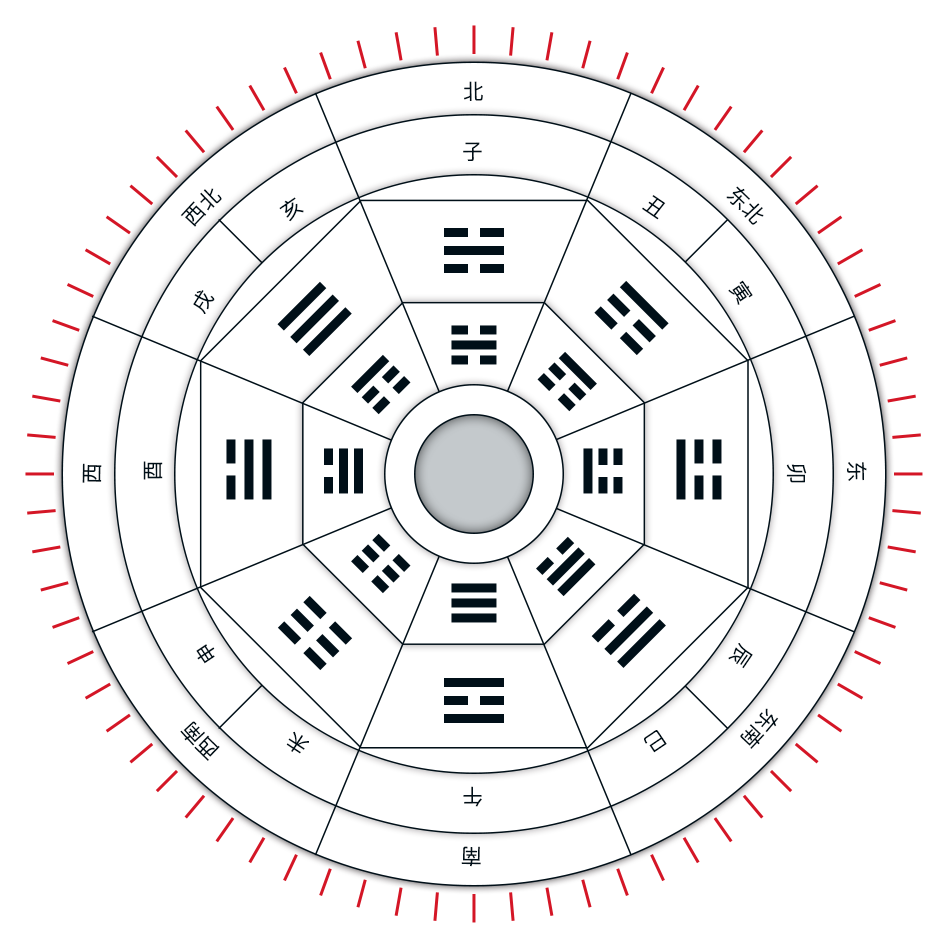
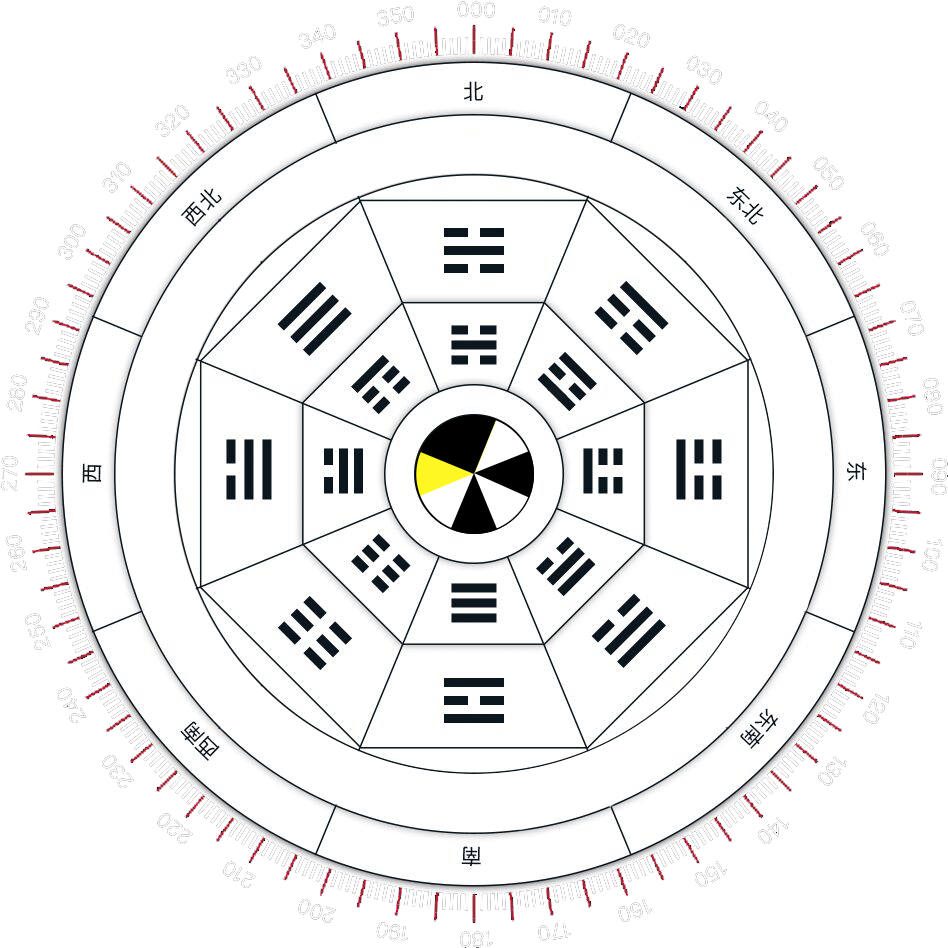
无

diff --git a/games/lp/index.html b/games/lp/index.html
@@ -4,89 +4,46 @@
 <meta charset="utf-8"><meta name="viewport" content="maximum-scale=1.0,minimum-scale=1.0,user-scalable=0,width=device-width,initial-scale=1.0" />
 <meta name="format-detection" content="telephone=no,email=no,date=no,address=no">
 <title>罗盘-yinmouxue.com</title>
-<link rel="stylesheet" href="style/hui.css" media="screen" type="text/css">
+<link href="style/hui.css" rel="stylesheet" type="text/css" />
 <style>
+/*qq790431300*/
 body{padding:0;margin:0;overflow-x:hidden;}
-#image{width:100%;padding:0;margin:0;text-align:center;}
-#img{width:80%;margin:8px;}
+#image{width:100%;padding:0;margin:0;text-align:center;vertical-align:middle;}
+#img{width:280px;margin:0px}
 </style>
 </head>
 <body class="H-theme-background-color3">
-<header class="H-header H-theme-background-color3" id="header"><span class="H-icon H-position-relative H-display-inline-block H-float-left H-vertical-middle H-theme-font-color-white H-padding-horizontal-left-5 H-z-index-100" onclick="window.history.go(-1);"><i class="H-iconfont H-icon-arrow-left H-font-size-18 H-vertical-middle"></i></span><div class="H-header-title H-center-all H-font-size-18 H-text-show-row-1 H-theme-font-color-white H-position-absolute H-width-100-percent" id="text">
-先后天罗盘</div></header>
+<header class="H-header H-theme-background-color3" id="header"><span class="H-icon H-position-relative H-display-inline-block H-float-left H-vertical-middle H-theme-font-color-white H-padding-horizontal-left-5 H-z-index-100" onclick="window.history.go(-1);"><i class="H-iconfont H-icon-arrow-left H-font-size-18 H-vertical-middle"></i>返回</span><div class="H-header-title H-center-all H-font-size-18 H-text-show-row-1 H-theme-font-color-white H-position-absolute H-width-100-percent" id="text">
+沃RD罗盘</div></header>
 <div id="image" class="H-theme-background-color3">
-<img src="image/jiantou.png" style="width:24px;">
+<img src="image/jiantou.png" style="position:absolute;width:20px;top:45px;left:170px;vertical-align:middle;z-index:999;">
+<img src="image/zhizhen.png" id="zhizhen" style="position:absolute;width:8px;top:193px;left:176px;vertical-align:middle;z-index:999;">
+<img src="image/jiaochaxian.png" style="position:absolute;width:280px;top:68px;left:40px;vertical-align:middle;z-index:999;">
+<img src="image/3.png" id="t" style="position:absolute;width:280px;top:68px;left:40px;vertical-align:middle;z-index:99;">
 <br/>
-<img src="image/2.png" id="img">
+<img src="image/1.png" id="img" style="position:relative;">
 </div>
+
+<div class="H-padding-vertical-bottom-12"></div>
+<div class="H-progress H-theme-background-color-eee H-width-100-percent H-border-radius-5 H-line-height-0 H-overflow-hidden" style="height:5px;">
+<div class="H-height-100-percent H-theme-background-color4" id="jd" style="width:0%"></div></div>
+<div class="H-padding-vertical-bottom-12"></div>
+<center>
 <div style="padding:16px;color:#fff;">
-<span id="alpha"></span>
-<script>
-function $(id){return document.getElementById(id);}
-if(window.DeviceOrientationEvent){
-window.addEventListener('deviceorientation',function (event){
-alpha = event.alpha,
-beta = event.beta,
-gamma = event.gamma;
-
-$("img").style.transform="rotateZ("+alpha+"deg)";
-$("img").style.transform="rotateZ("+alpha+"deg)";
-
-if(beta>22 || beta<-16 || gamma>22 || gamma<-22){
-$("text").innerText="请把手机放平";
-}else{
-var $alpha=360-alpha;
-switch(true){
-case $alpha>337.5 || $alpha<22.5:text="朝北";
-break;
-case $alpha>22.5 && $alpha<67.5:text="朝东北";
-break;
-case $alpha>67.5 && $alpha<112.5:text="朝东";
-break;
-case $alpha>112.5 && $alpha<157.5:text="朝东南";
-break;
-case $alpha>157.5 && $alpha<202.5:text="朝南";
-break;
-case $alpha>202.5 && $alpha<247.5:text="朝西南";
-break;
-case $alpha>247.5 && $alpha<292.5:text="朝西";
-break;
-case $alpha>292.5 && $alpha<337.5:text="朝西北";
-break;
-//default:text = "北";
-}
-$("text").innerText=text;
-$("alpha").innerText=$alpha;
-}
-},false);
-
-}else{
-document.querySelector('body').innerText = '你的浏览器不支持陀螺仪';
-}
-</script>
-
+<span id="zz" style="display:none">0</span>
+<span id="ti" class="time"></span>
+<script src="style/wo.js"></script>
 <br/>
-八卦图是什么？<br/>
-八卦图是用来描述宇宙的。<br/>
-前后，左右，上下称为宇，过去，现在，未来称为宙。<br/>
-从内开始，第一圈是宙轴，描述空间方向，人们常见的就只有三维空间里的一维，（北，东北，东，东南，南，西南，西，西北）八个方向，共360℃，
-每方45℃<br/>
-正北方为0℃，神奇的事发生了，
-<br/>337=13=4=北
-<br/>22=4=东北
-<br/>67=13=4=东
-<br/>112=4=东南
-<br/>157=13=4=南
-<br/>202=4=西南
-<br/>247=13=4=西
-<br/>292=13=4=西北
-<br/>13代表黑暗。4代表光明，发现黑暗有5，光明有3，67代表东方，唯一的2位加起来等于13的数，东方有太阳升起，黑暗被照亮，黑暗数5-1=4，光明数3+1=4，
-下午太阳到西方变白，东方变黑，刚好平衡。
+<span class="time">
+预测占卜联系QQ:790431300</span>
 <br/><br/>
-第二，三，四……圈代表宇轴，时间<br/>
-每一轴都会同步宇宙的变化而转动，秒，分，时，天，月，季，年，甲子，以及宇宙星体运行影响给地球带来的灾难，天象奇观，宇宙变化八卦图就会变化转动，还有其他轴能预测过去现在未来，因为八卦图已经容纳了宇宙，整个四维空间，化繁为简。<br/><br/>
-其他圈轴代表某些特殊含义，比如预测<br/><br/>完整的八卦运行图开发需要资金，所以只能展示上面的这一部分。<br/>想看完整版可投资合作，加QQ:790431300<br/>
-</div>
+乾三阳 坤三阴<br/>
+艮上阳 兑上阴<br/>
+坎中阳 离中阴<br/>
+震下阳 巽下阴<br/>
+</center>
 
-
+<br/><div style="text-align:left;color:#f4f4f4;padding:16px;">
+资金不足，目前只有方向和时间轮，只能观测宇宙的时间和方向，投资可加几轮，天气温度轮，自然现象轮风，云，雨，雷，雹，晴，雪，震，四季二十四节气轮，吉凶轮，天象轮等……联系微信：guigs_cn<br/>
+</div></div>
 </body></html>

diff --git a/games/lp/1.html b/games/lp/1.html
@@ -1,0 +1,162 @@
+<!DOCTYPE html>
+<html lang="en">
+<head>
+  <meta charset="UTF-8">
+  <meta name="viewport" content="width=device-width, initial-scale=1.0">
+  <meta http-equiv="X-UA-Compatible" content="ie=edge">
+  <title>Document</title>
+<style>
+  .week-item {
+    display: inline-block;
+    width:30px;
+    height: 40px;
+    line-height: 40px;
+    border: 1px solid sandybrown;
+    text-align: center;
+  }
+  .date-item {
+    display: inline-block;
+    width:30px;
+    height: 40px;
+    line-height: 40px;
+    border: 1px solid beige;
+    text-align: center;
+  }
+</style>
+</head>
+<body>
+  <div class="wrapper" style="margin:auto;text-align:center;">
+    <div class="year-line">
+      <button id="preMonth" class="year-prev">上一月</button>
+      <button id="nowYear" class="year-now"></button>
+      <button id="nowMonth"></button>
+      <button id="nowDate"></button>
+      <button id="nextMonth" class="year-next">下一月</button>
+    </div><br/>
+    <div id="weekLine" class="week-line"></div>
+    <div id="dateWrap" class="date-wrap"></div>
+  </div>
+</body>
+<script>
+  // 工具方法 - start
+  // 1.为了获得每个月的日期有多少，我们需要判断 平年闰年[四年一闰，百年不闰，四百年再闰]
+  const isLeapYear = (year) => {
+    return (year % 400 === 0) || (year % 100 !== 0 && year % 4 === 0);
+  };
+  // 2.获得每个月的日期有多少，注意 month - [0-11]
+  const getMonthCount = (year, month) => {
+    let arr = [
+      31, null, 31, 30, 
+      31, 30, 31, 31,
+      30, 31, 30, 31
+    ];
+    let count = arr[month] || (isLeapYear(year) ? 29 : 28);
+    return Array.from(new Array(count), (item, value) => value + 1);
+  };
+  // 3.获得某年某月的 1号 是星期几，这里要注意的是 JS 的 API-getDay() 是从 [日-六](0-6)，返回 number
+  const getWeekday = (year, month) => {
+    let date = new Date(year, month, 1);
+    return date.getDay();
+  };
+  // 4.获得上个月的天数
+  const getPreMonthCount = (year, month) => {
+    if (month === 0) {
+      return getMonthCount(year - 1, 11);
+    } else {
+      return getMonthCount(year, month - 1);
+    }
+  };
+  // 5.获得下个月的天数
+  const getNextMonthCount = (year, month) => {
+    if (month === 11) {
+      return getMonthCount(year + 1, 0);
+    } else {
+      return getMonthCount(year, month + 1);
+    }
+  };
+  // 工具方法 - end
+  let weekStr = '日一二三四五六';
+  weekArr = weekStr.split('').map(item => '' + item);
+  // 插入星期 dom
+  let weekDomStr = '';
+  let oFragWeek = document.createDocumentFragment();
+  weekArr.forEach(item => {
+    let oSpan = document.createElement('span');
+    let oText = document.createTextNode(item);
+    oSpan.appendChild(oText);
+    oSpan.classList.add('week-item');
+    oFragWeek.appendChild(oSpan);
+  });
+  let weekWrap = document.getElementById('weekLine');
+  weekWrap.appendChild(oFragWeek);
+
+  // 这里获得我们第一次的 数据 数组
+  const updateCalendar = (year, month, day) => {
+    if (typeof year === 'undefined' && typeof month === 'undefined' && typeof day === 'undefined') {
+      let nowDate = new Date();
+      year = nowDate.getFullYear();
+      month = nowDate.getMonth();
+      day = nowDate.getDate();
+    }
+    // 更新一下顶部的年月显示
+    document.getElementById('nowYear').innerHTML = year;
+    document.getElementById('nowMonth').innerHTML = month + 1;
+    document.getElementById('nowDate').innerHTML = day;
+    // 生成日历数据，上个月的 x 天 + 当月的 [28,29,30,31]天 + 下个月的 y 天 = 42
+    let res = [];
+    let currentMonth = getMonthCount(year, month);
+    let preMonth = getPreMonthCount(year, month);
+    let nextMonth = getNextMonthCount(year, month);
+    let whereMonday = getWeekday(year, month);
+    let preArr = preMonth.slice(-1 * whereMonday);
+    let nextArr = nextMonth.slice(0, 42 - currentMonth.length - whereMonday);
+    res = [].concat(preArr, currentMonth, nextArr);
+    // 上面经过我本人的测试是没有什么问题，接下来就是更新 dom 的信息的问题
+    let hadDom = document.getElementsByClassName('date-item');
+    if (hadDom && hadDom.length) {
+      let domArr = document.getElementsByClassName('date-item');
+      for (let i = 0; i < domArr.length; i++) {
+        domArr[i].innerHTML = res.shift();
+      }
+    } else {
+      // 如果之前没有结构的话
+      let str = '';
+      for (let i = 0; i < 6; i++) {
+        str += '<div class="date-line">';
+        for (let j = 0; j < 7; j++) {
+          str += `<span class='date-item'>${res.shift()}</span>`;
+          if (j === 6) {
+            str += '</div>';
+          }
+        }
+      }
+      document.getElementById('dateWrap').innerHTML = str;
+    }
+  };
+
+  updateCalendar();
+  // 添加上一月，下一月事件
+  let oPreButton = document.getElementById('preMonth');
+  let oNextButton = document.getElementById('nextMonth');
+  oPreButton.addEventListener('click', function () {
+    let currentYear = +document.getElementById('nowYear').textContent;
+    let currentMonth = +document.getElementById('nowMonth').textContent - 1;
+    let currentDate = +document.getElementById('nowDate').textContent;
+    if (currentMonth === 0) {
+      updateCalendar(currentYear - 1, 11, currentDate);
+    } else {
+      updateCalendar(currentYear, currentMonth - 1, currentDate);
+    }
+  });
+  oNextButton.addEventListener('click', function () {
+    let currentYear = +document.getElementById('nowYear').textContent;
+    let currentMonth = +document.getElementById('nowMonth').textContent - 1;
+    let currentDate = +document.getElementById('nowDate').textContent;
+    if (currentMonth === 11) {
+      updateCalendar(currentYear + 1, 0, currentDate);
+    } else {
+      updateCalendar(currentYear, currentMonth + 1, currentDate);
+    }
+  });
+</script>
+</html>

diff --git a/games/lp/style/wo.js b/games/lp/style/wo.js
@@ -1,0 +1,58 @@
+function $(id){return document.getElementById(id);}
+function t(){var d=new Date();var y=d.getFullYear();var m=d.getMonth()+1;var ds=d.getDate();if(ds <=9){ds='0'+ds;}var h=d.getHours();if(h <=9){h='0'+h;}var f=d.getMinutes();if(f<=9){f='0'+f;}var s=d.getSeconds();if(s<=9){s='0'+s;}
+var days=d.getDay();ty=0.25*(h*60+f)-15;
+$("t").style.transform="rotateZ(-"+ty+"deg)";
+if(h>12){$("img").src="image/2.png";}
+var jd=100-((1440-((h*60)+f))/1440)*100;
+$("jd").style.width=jd+"%";
+$("ti").innerHTML ='<br/>'+y+'-'+m+'-'+ds+' '+h+':'+f+':'+s+' 星期'+days+'<br/>今日的时间已使用'+jd.toFixed(0)+'%';
+}
+t();
+setInterval("t();",1000);
+function zhizhen(){zz=parseInt($("zz").innerText);
+if(zz<3600){$("zz").innerText=zz+16;
+window.setTimeout("zhizhen();","1");}
+$("zhizhen").style.transform="rotateZ(-"+zz+"deg)";
+}
+zhizhen();
+if(window.DeviceOrientationEvent){
+window.addEventListener('deviceorientation',function (event){
+alpha=event.alpha,beta=event.beta,gamma=event.gamma;
+if($("zz").innerText>3598){
+if(alpha<180){
+zhizhen=180+(alpha+360);
+}else{
+zhizhen=180+alpha;
+}
+$("zhizhen").style.transform="rotateZ("+zhizhen+"deg)";}
+
+$("img").style.transform="rotateZ("+alpha+"deg)";
+if(beta>22 || beta<-16 || gamma>22 || gamma<-22){
+$("text").innerText="请把手机放平";
+}else{
+var $alpha=360-alpha;
+switch(true){
+case $alpha>337.5 || $alpha<22.5:text="朝北";
+break;
+case $alpha>22.5 && $alpha<67.5:text="朝东北";
+break;
+case $alpha>67.5 && $alpha<112.5:text="朝东";
+break;
+case $alpha>112.5 && $alpha<157.5:text="朝东南";
+break;
+case $alpha>157.5 && $alpha<202.5:text="朝南";
+break;
+case $alpha>202.5 && $alpha<247.5:text="朝西南";
+break;
+case $alpha>247.5 && $alpha<292.5:text="朝西";
+break;
+case $alpha>292.5 && $alpha<337.5:text="朝西北";
+break;
+//default:text = "北";
+}
+$("text").innerText=text;
+$("alpha").innerText=zhizhen;
+}},false);
+}else{
+$("text").innerText='你的浏览器不支持陀螺仪';
+}
